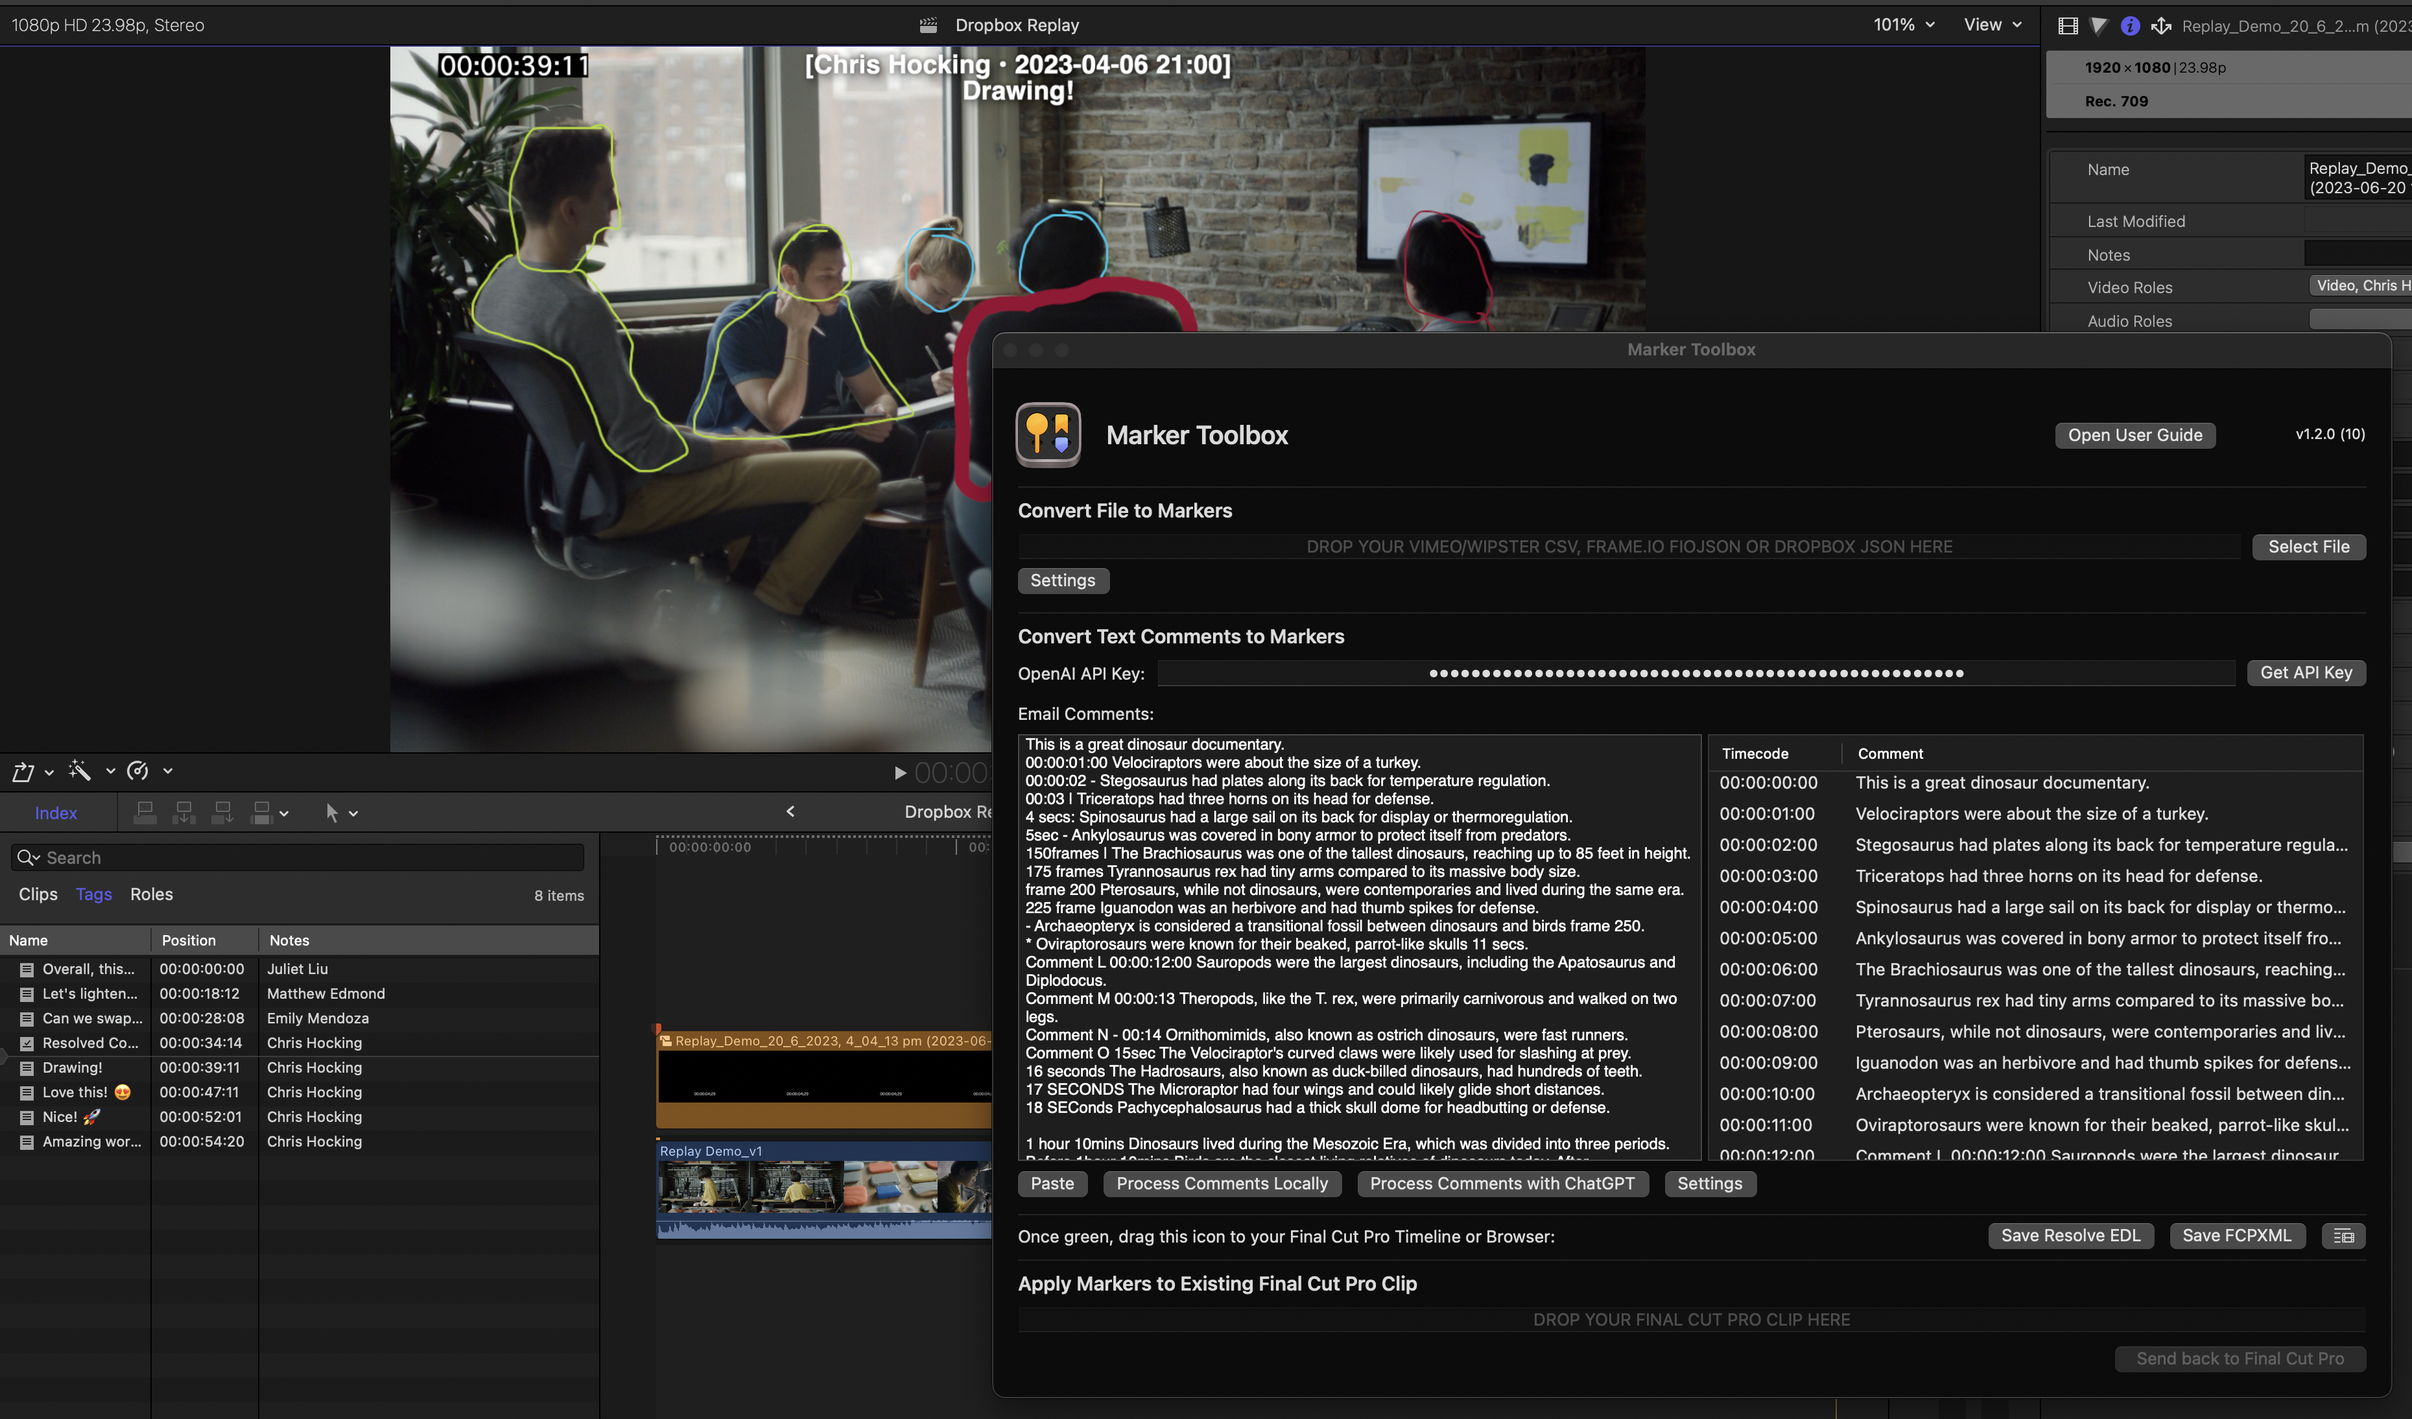
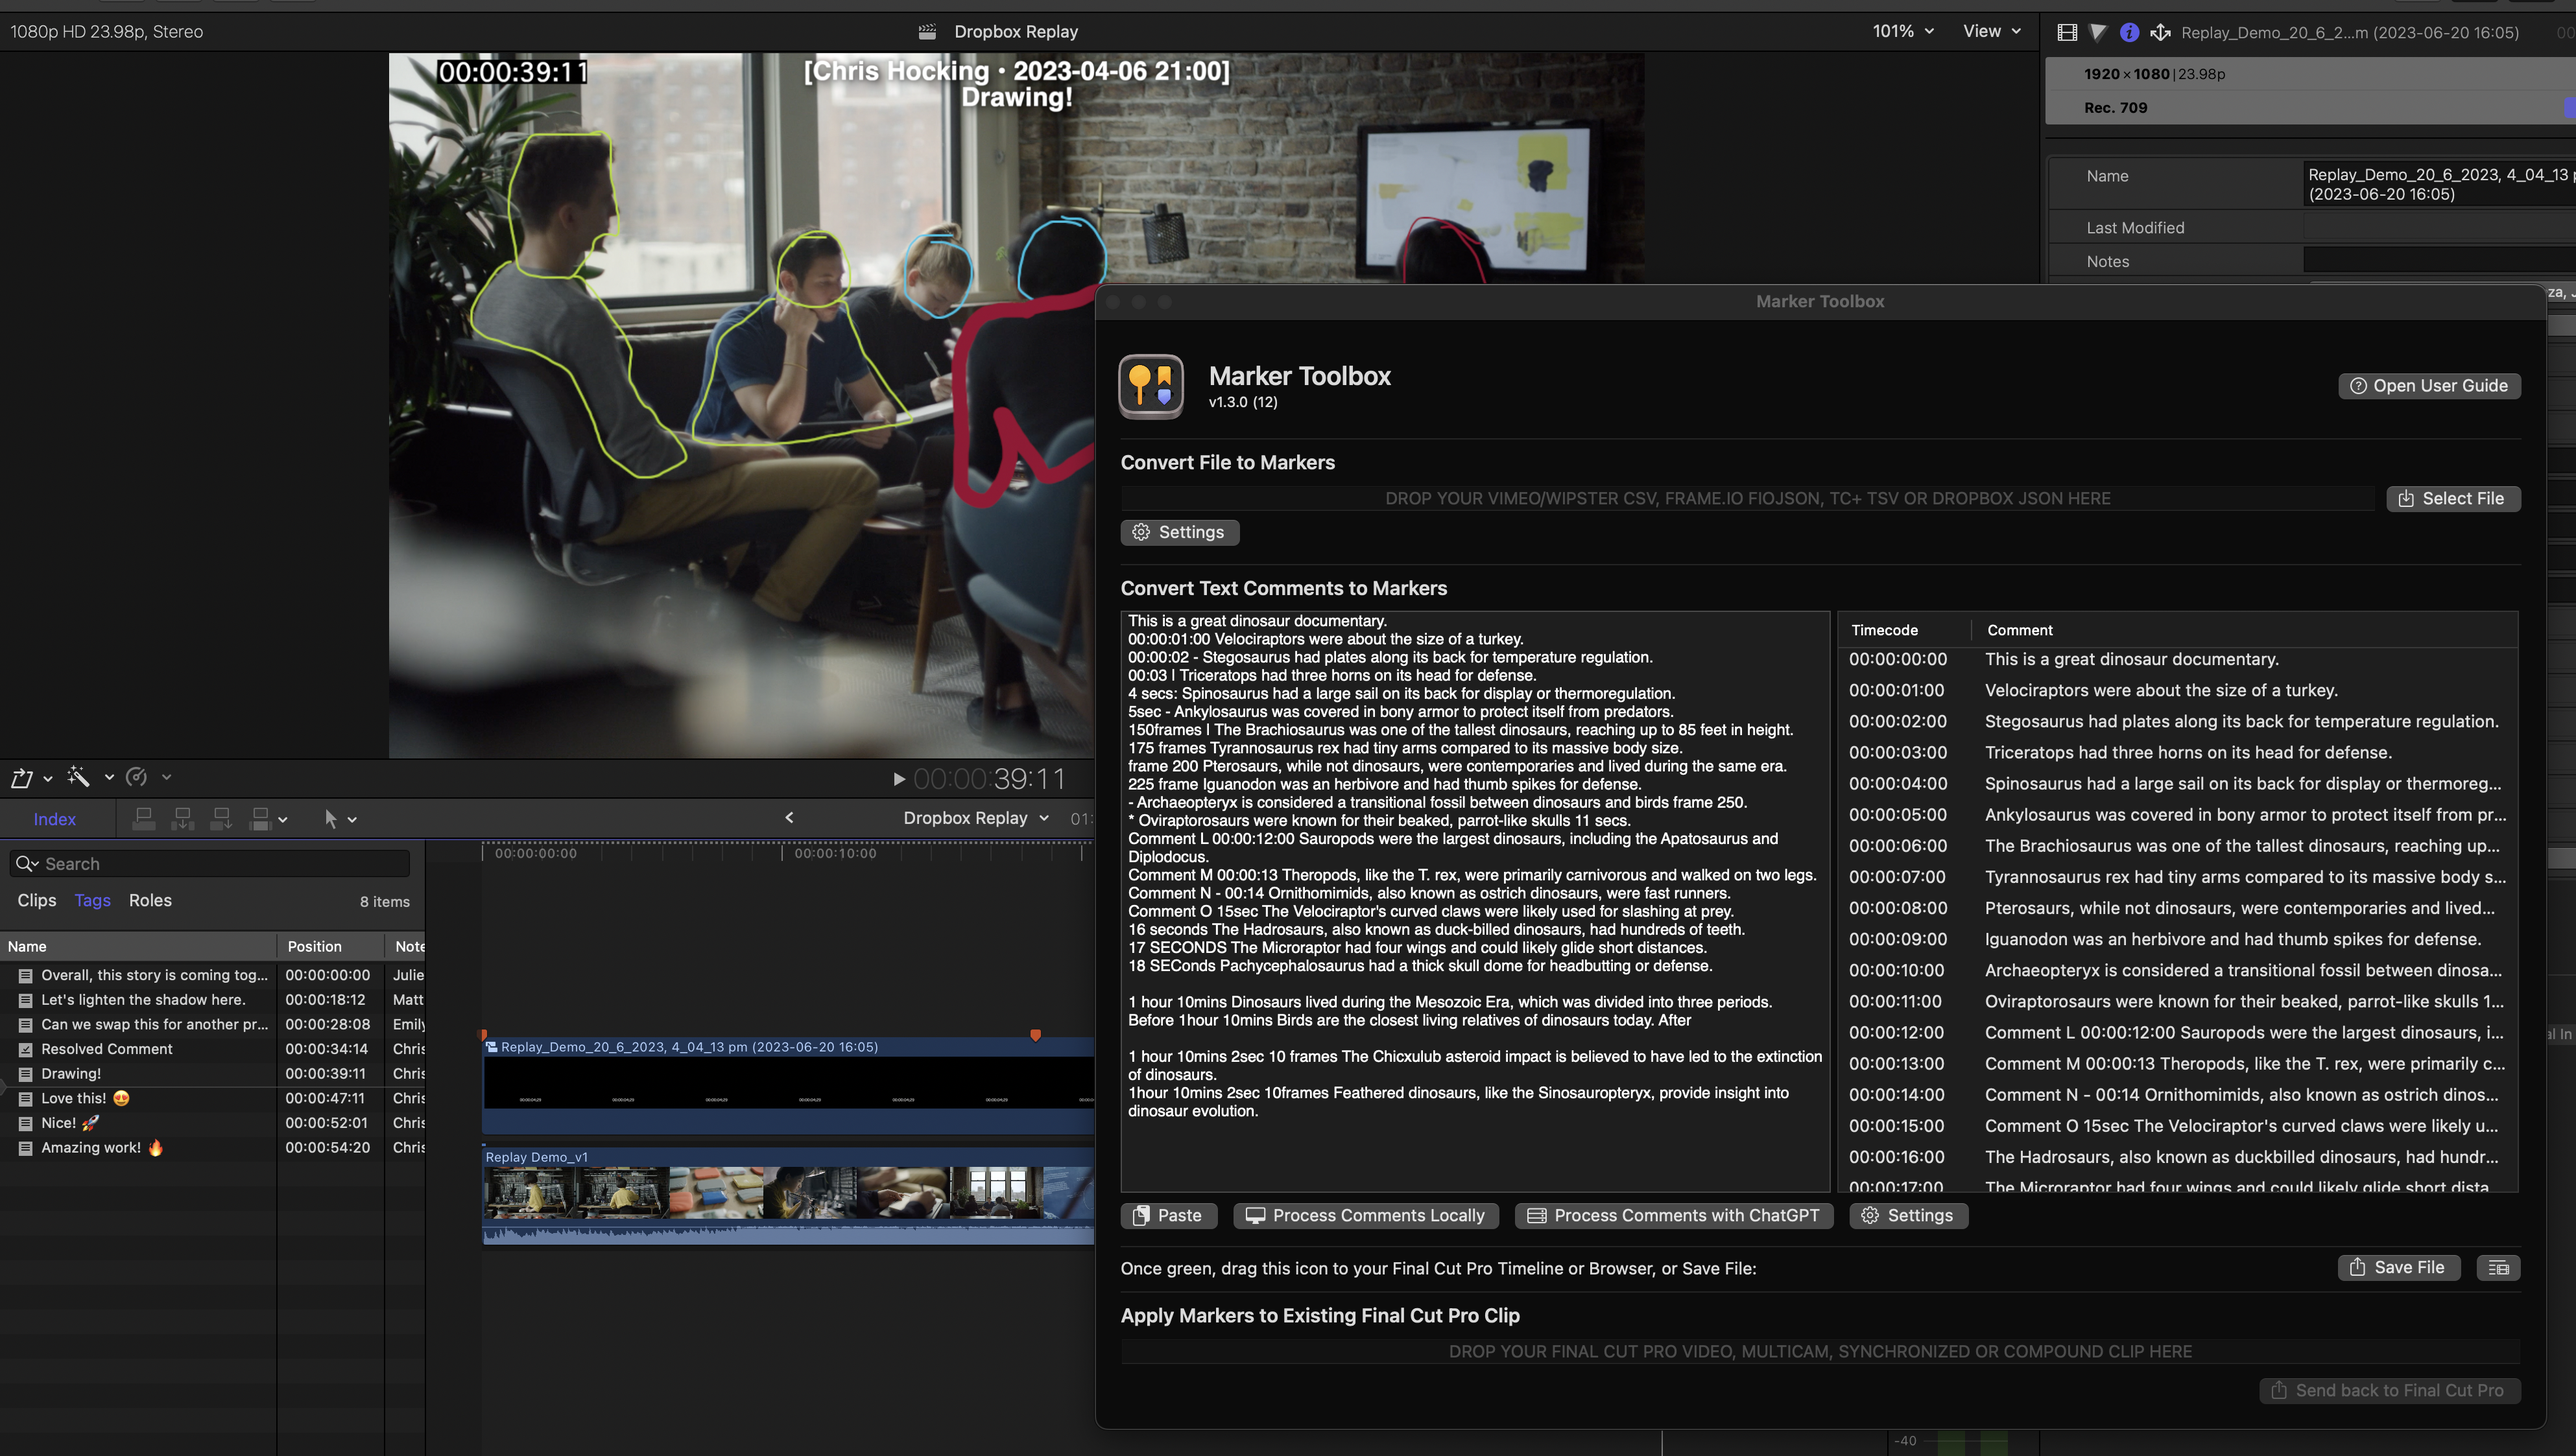
Updated home page

diff --git a/docs/README.md b/docs/README.md
@@ -1,16 +1,16 @@
 # Marker Toolbox
 
-Marker Toolbox allows you to import **Vimeo** `CSV`, **Wipster** `CSV`, **Dropbox Replay** `JSON`, Frame.io `FIOJSON` & **Text Comments** into Apple's [Final Cut Pro](https://www.apple.com/final-cut-pro/) and Blackmagic's [DaVinci Resolve](https://www.blackmagicdesign.com/products/davinciresolve){target="_blank"}.
+Marker Toolbox allows you to import a **Vimeo** `CSV`, **Wipster** `CSV`, **Dropbox Replay** `JSON`, **Frame.io** `FIOJSON`, **Timecode+** `TSV` & **Text Comments** into Apple's [Final Cut Pro](https://www.apple.com/final-cut-pro/), Blackmagic's [DaVinci Resolve](https://www.blackmagicdesign.com/products/davinciresolve){target="_blank"} and [Avid Media Composer](https://www.avid.com/media-composer){target="_blank"}.
 
-You can even get OpenAI's **ChatGPT** to help process your Text Comments!
+You can even get OpenAI's **ChatGPT** to help interpret your Text Comments - which is perfect for handling emails from clients!
 
 > [:icon-desktop-download: Click here to **buy** on the Mac App Store](/buy/)
 
 ![](static/homepage.png)
 
-If you're emailed a simple list of changes, you can use our simple algorithm to transform this list into markers locally.
+If you're emailed a simple list of changes, you can use our powerful algorithm to transform this list into markers locally.
 
-However, if you have a more complex email of changes, you can get OpenAI's ChatGPT to help translate the email into markers!
+However, if you have a more complex email of conversational notes, you can get OpenAI's ChatGPT to help translate the email into markers!
 
 You can even import a Clip, Multicam Clip, Compound Clip or Synchronised Clip from Final Cut Pro into Marker Toolbox, apply markers to it, and bring it back to Final Cut Pro!
 
